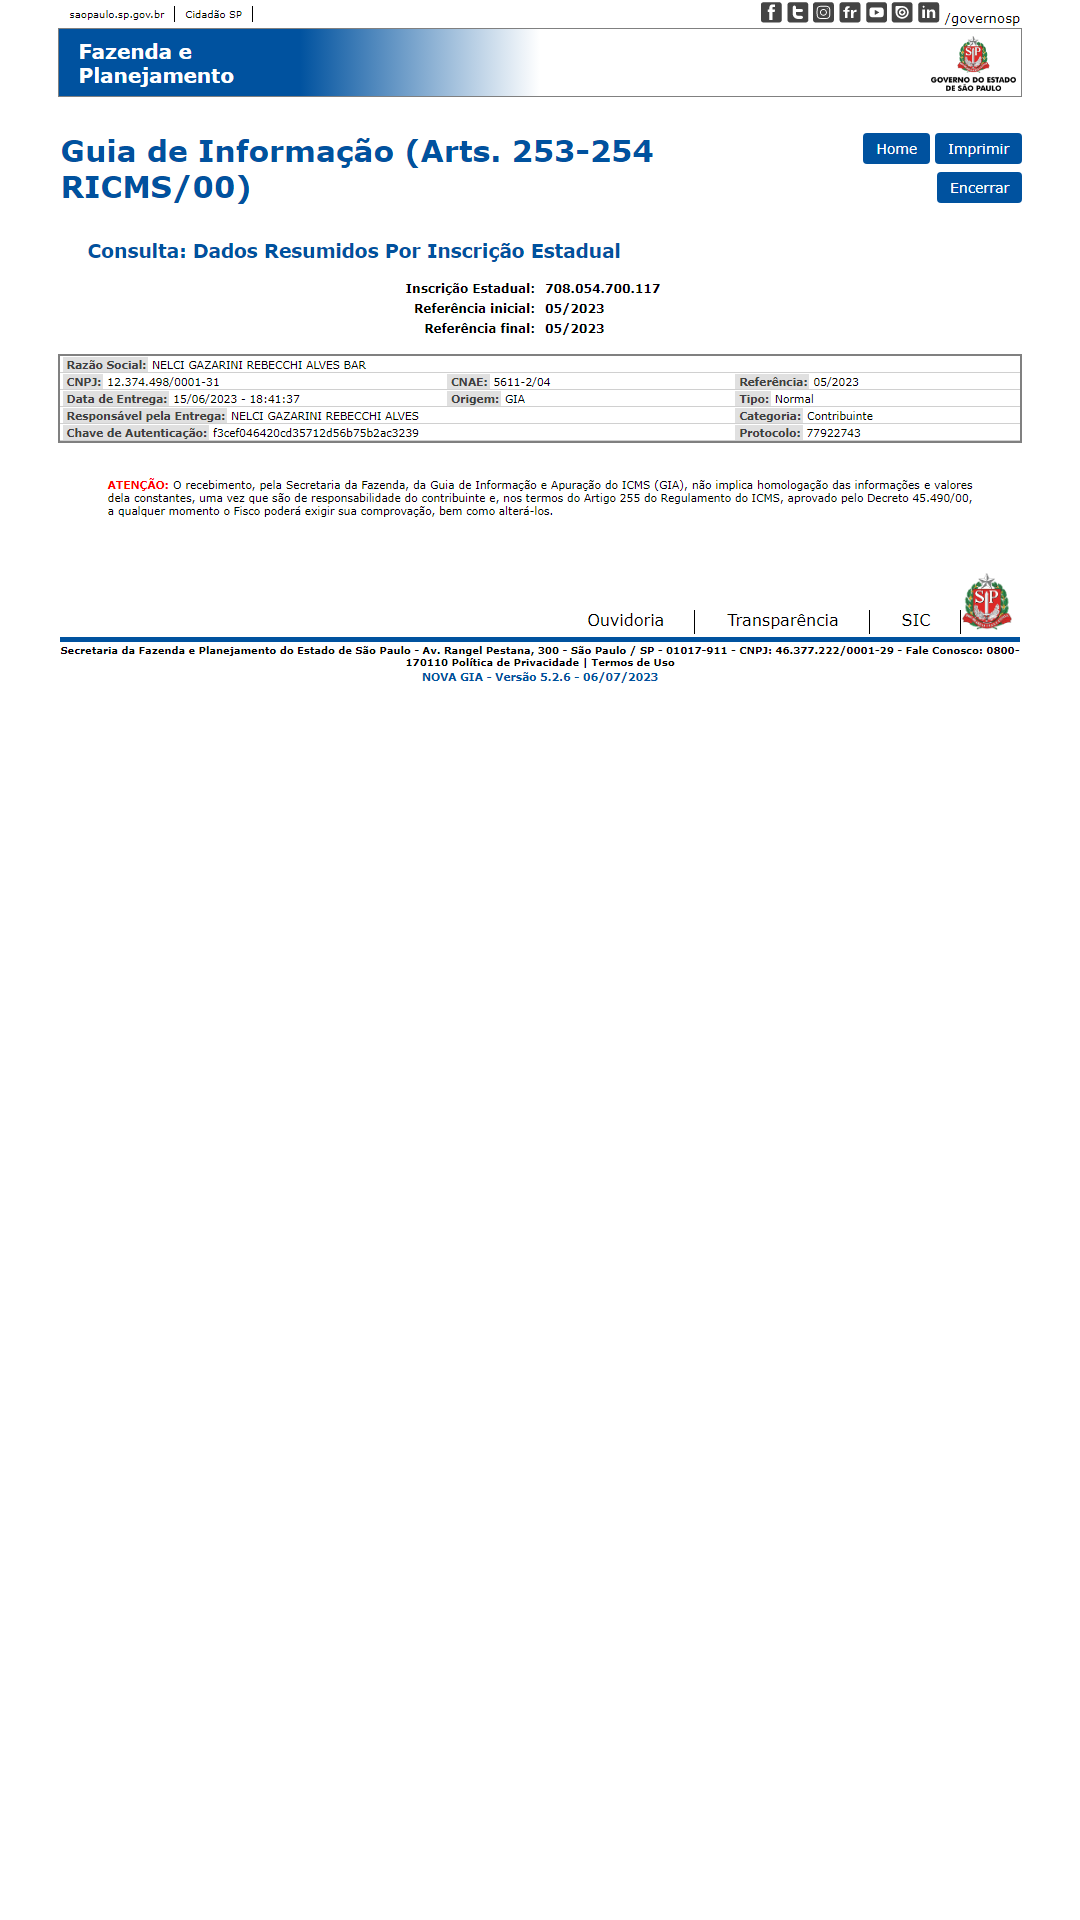
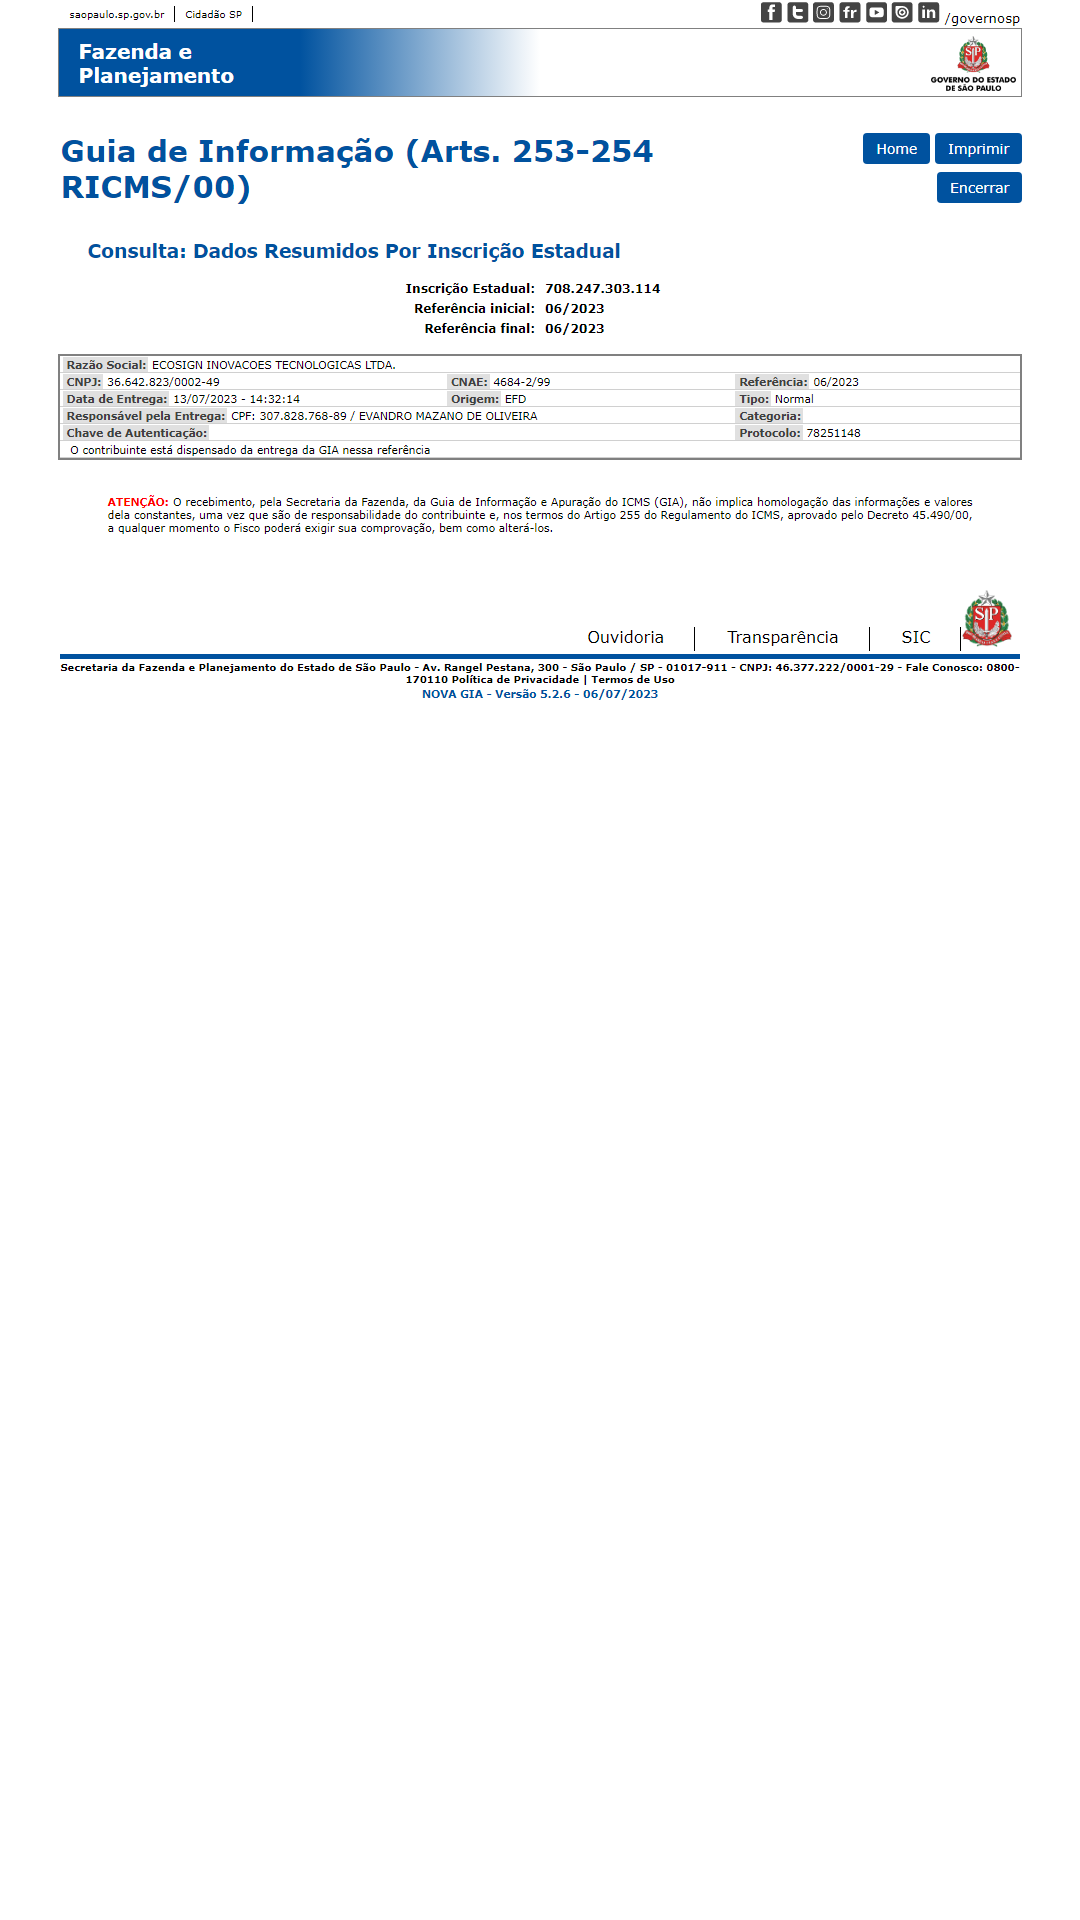
backup 18-07-2023

Changed region(s): [[0.0611, 0.1875, 0.9472, 0.375], [0.4583, 0.1875, 0.4889, 0.2188]]

diff --git a/Fazenda/consulta envio gia/consulta_envio_gia.py b/Fazenda/consulta envio gia/consulta_envio_gia.py
@@ -20,8 +20,8 @@ def captura_dados(driver):
     else:
         regex_responsavel = r'Responsável pela Entrega:</span>\s+(.+).+/td>'
     
-    if re.compile(r'Categoria:</span>\s+</td>').search(driver.page_source):
-        regex_categoria = r'Categoria:</span>\s+</td>'
+    if re.compile(r"Categoria:</span>\s+()</td>").search(driver.page_source):
+        regex_categoria = r'Categoria:</span>\s+()</td>'
     else:
         regex_categoria = r'Categoria:</span>\s+(.+).+/td>'
         
@@ -46,7 +46,11 @@ def captura_dados(driver):
     # tenta procurar e concatenar os itens, se não conseguir printa o código da página para análise
     try:
         for termo in termos:
-            resultado += re.compile(termo).search(driver.page_source).group(1) + ';'
+            resposta = re.compile(termo).search(driver.page_source).group(1)
+            if resposta == '':
+                resposta = 'Não consta'
+                
+            resultado += resposta + ';'
     except:
         print(driver.page_source)
         time.sleep(22)
